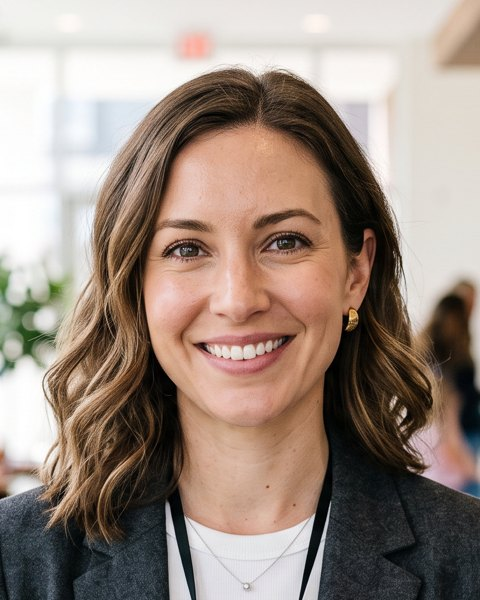
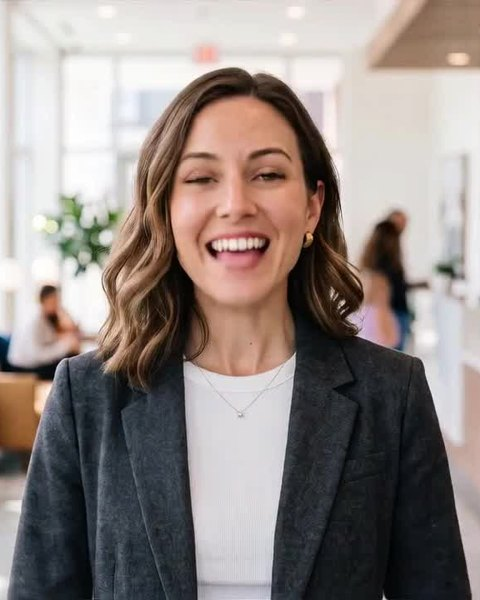
Ava talking video live in Melanie's guide bubble
Claude-Session: https://claude.ai/code/session_01APSB1huBfTV44S1XgtiNWJ

diff --git a/guide/guide.js b/guide/guide.js
@@ -8,7 +8,7 @@ var s=document.currentScript;if(!s)return;var d=s.dataset;
 var C=d.color||'#C8241D',N=d.name||'Ava',P=d.property||'',PRO=d.pro||'your leasing pro',V=d.video||'',POS=d.poster||'',FACE=d.face||POS;
 var css='.llg{position:fixed;right:14px;bottom:14px;z-index:9999;font:15px/1.45 Inter,system-ui,sans-serif;color:#111}'+
 '.llg-b{width:92px;height:92px;border-radius:50%;border:3px solid '+C+';background:#111 center/cover;box-shadow:0 10px 30px rgba(0,0,0,.3);cursor:pointer;position:relative;overflow:hidden;padding:0;display:grid;place-items:center;color:#fff;font:700 28px Montserrat,Inter,sans-serif}'+
-'.llg-b video{position:absolute;inset:0;width:100%;height:100%;object-fit:cover}'+
+'.llg-b video{position:absolute;inset:0;width:100%;height:100%;object-fit:cover;object-position:50% 30%;transform:scale(1.5);transform-origin:50% 30%}'+
 '.llg-b::after{content:"";position:absolute;inset:-3px;border-radius:50%;border:3px solid '+C+';animation:llgp 2.2s ease-out infinite}'+
 '@keyframes llgp{0%{transform:scale(1);opacity:.7}100%{transform:scale(1.35);opacity:0}}'+
 '@media(prefers-reduced-motion:reduce){.llg-b::after{animation:none}}'+
@@ -17,7 +17,7 @@ var css='.llg{position:fixed;right:14px;bottom:14px;z-index:9999;font:15px/1.45 
 '.llg-p{position:absolute;right:0;bottom:104px;width:min(320px,calc(100vw - 28px));background:#fff;border-radius:20px;box-shadow:0 18px 50px rgba(0,0,0,.3);overflow:hidden;display:none}'+
 '.llg.on .llg-p{display:block}.llg.on .llg-tip{display:none}'+
 '.llg-v{position:relative;aspect-ratio:4/5;background:#111 center/cover;display:grid;place-items:center;color:#fff;text-align:center}'+
-'.llg-v video{width:100%;height:100%;object-fit:cover;display:block}'+
+'.llg-v video{width:100%;height:100%;object-fit:cover;object-position:50% 35%;display:block}'+
 '.llg-v .ph{padding:20px}.llg-v .ph b{display:block;font:700 40px Montserrat,Inter,sans-serif;width:84px;height:84px;line-height:84px;border-radius:50%;background:'+C+';margin:0 auto 12px}'+
 '.llg-h{padding:12px 14px 4px;font-size:14px}.llg-h small{display:block;color:#6a6e75;font-size:11.5px}'+
 '.llg-a{display:grid;gap:6px;padding:8px 14px 14px}.llg-a a{display:block;text-align:center;text-decoration:none;font-weight:600;border-radius:999px;padding:10px;border:1px solid #e5e5e5;color:#111}'+

diff --git a/team/huxley/melanie/index.html b/team/huxley/melanie/index.html
@@ -153,5 +153,5 @@ $('#share').addEventListener('click',function(){var d={title:'Huxley Scottsdale'
 var vd=$('#vid');if(vd&&vd.dataset.src){vd.addEventListener('click',function(e){e.preventDefault();var v=vd.querySelector('video');if(!v.src)v.src=vd.dataset.src;vd.classList.add('on');v.play().catch(function(){})})}
 })();
 </script>
-<script src="../../../guide/guide.js" data-name="Ava" data-face="../../../guide/ava-face.jpg" data-poster="../../../guide/ava-poster.jpg" data-property="Huxley Scottsdale" data-pro="Melanie" data-tour="https://www.huxleyscottsdale.com/scheduletour" data-offer="https://www.huxleyscottsdale.com/leasingoffers" data-call="tel:+14807718082" data-color="#C8241D" defer></script>
+<script src="../../../guide/guide.js" data-name="Ava" data-video="https://cms-toolkit-artifacts.artlist.io/content/-e-x-t-e-r-n-a-l_-i-m-a-g-e_-t-o_-v-i-d-e-o-v1/media__5/-e-x-t-e-r-n-a-l_-i-m-a-g-e_-t-o_-v-i-d-e-o-cbe46f52-fbd3-4b4a-a77d-f19fd9fa2d4b.mp4?Expires=2110767716&amp;Key-Pair-Id=K2ZDLYDZI2R1DF&amp;Signature=eZL0QFjrcYQDNljssVAbEPmMGEj2jl6zeZ0TgOf9k-tQPZU~WgtPep6rZOjLK91U7eebCF5MMs-2tWf9oxZQ48pgBfLyllROpACMn~~oA8IH1RAMv1MEpe3NuH17zM~UlrtdROes78Ym-djEhcBxVcyKfYiixwr1hmzqkgKC-ycsOWN1F3HlV7et1cCQKO6oBT2Z5O-499Omqu1ZnfTEc-5Z78kZfs4rQdI4ZOkOuxY~1TCfWo2KpygFo7Yr43n2qITAL~lovJIGYwP6X648esXRPtBhUz3kIgdDPcEU5RTeHECUdfN~T8Bo4SilGdFeagwoWDgaiyVGWveU03N~Jw__" data-face="../../../guide/ava-face.jpg" data-poster="../../../guide/ava-poster.jpg" data-property="Huxley Scottsdale" data-pro="Melanie" data-tour="https://www.huxleyscottsdale.com/scheduletour" data-offer="https://www.huxleyscottsdale.com/leasingoffers" data-call="tel:+14807718082" data-color="#C8241D" defer></script>
 </body></html>
